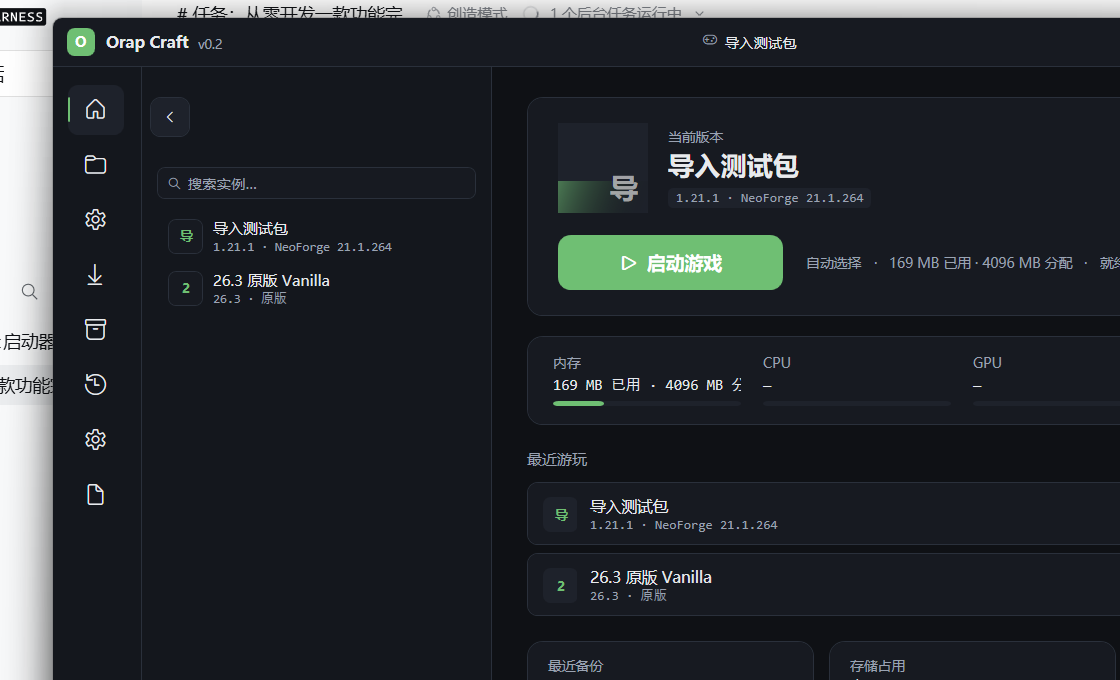
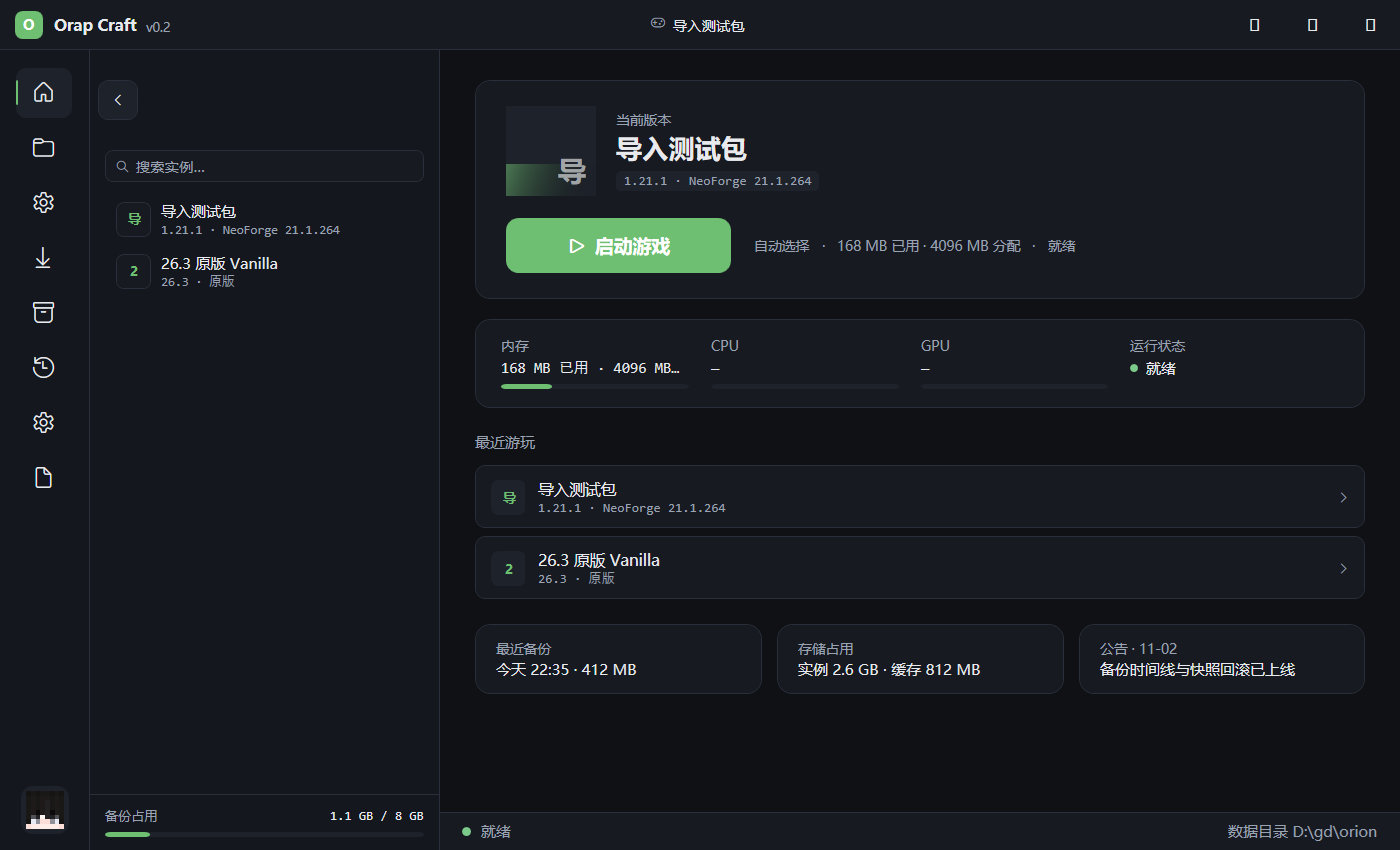
Trim long home text so the console and status row fit narrow windows
The performance strip and the three-up status row let their captions ellipsize, and the environment
chips get a max width, so nothing pushes the fourth column out when the window is 1120 wide.

Also refreshed docs/images/page-home.png from the published EXE (captured DPI-aware: the earlier
blurry/clipped shots were a 125% scaling artefact in the capture, not a layout bug).

diff --git a/src/Orion.App/Views/HomeView.xaml b/src/Orion.App/Views/HomeView.xaml
@@ -107,8 +107,9 @@
                                     Height="44" Command="{Binding StopCommand}"
                                     Visibility="{Binding IsLaunching, Converter={StaticResource BoolToVisibility}}" />
 
-                            <StackPanel Orientation="Horizontal" VerticalAlignment="Center" Margin="18,0,0,0">
-                                <TextBlock Text="{Binding RuntimeText}" Style="{StaticResource MetaText}"
+                            <StackPanel Orientation="Horizontal" VerticalAlignment="Center" Margin="18,0,0,0" MaxWidth="420"
+                                    ClipToBounds="True">
+                                <TextBlock Text="{Binding RuntimeText}" Style="{StaticResource MetaText}" TextTrimming="CharacterEllipsis"
                                            VerticalAlignment="Center" AutomationProperties.AutomationId="StatusJava" />
                                 <TextBlock Text="·" Style="{StaticResource MetaText}" Margin="10,0" />
                                 <TextBlock Text="{Binding MemoryUsageText}" Style="{StaticResource MetaText}"
@@ -133,7 +134,7 @@
                         <StackPanel Grid.Column="0" Margin="0,0,18,0">
                             <TextBlock Text="内存" Style="{StaticResource MetaText}" />
                             <TextBlock Text="{Binding MemoryUsageText}" FontFamily="Consolas" FontSize="12"
-                                       Margin="0,4,0,6" />
+                                       Margin="0,4,0,6" TextTrimming="CharacterEllipsis" TextWrapping="NoWrap" />
                             <ProgressBar Value="27" Height="4" />
                         </StackPanel>
 
@@ -228,14 +229,16 @@
                     <Border Grid.Column="1" Style="{StaticResource HomeCard}" Padding="16,12" Margin="4,0,4,0">
                         <StackPanel>
                             <TextBlock Text="存储占用" Style="{StaticResource MetaText}" />
-                            <TextBlock Text="实例 2.6 GB · 缓存 812 MB" FontSize="12" Margin="0,2,0,0" />
+                            <TextBlock Text="实例 2.6 GB · 缓存 812 MB" FontSize="12" Margin="0,2,0,0"
+                                       TextTrimming="CharacterEllipsis" TextWrapping="NoWrap" />
                         </StackPanel>
                     </Border>
 
                     <Border Grid.Column="2" Style="{StaticResource HomeCard}" Padding="16,12" Margin="8,0,0,0">
                         <StackPanel>
                             <TextBlock Text="公告 · 11-02" Style="{StaticResource MetaText}" />
-                            <TextBlock Text="备份时间线与快照回滚已上线" FontSize="12" Margin="0,2,0,0" />
+                            <TextBlock Text="备份时间线与快照回滚已上线" FontSize="12" Margin="0,2,0,0"
+                                       TextTrimming="CharacterEllipsis" TextWrapping="NoWrap" />
                         </StackPanel>
                     </Border>
                 </Grid>
